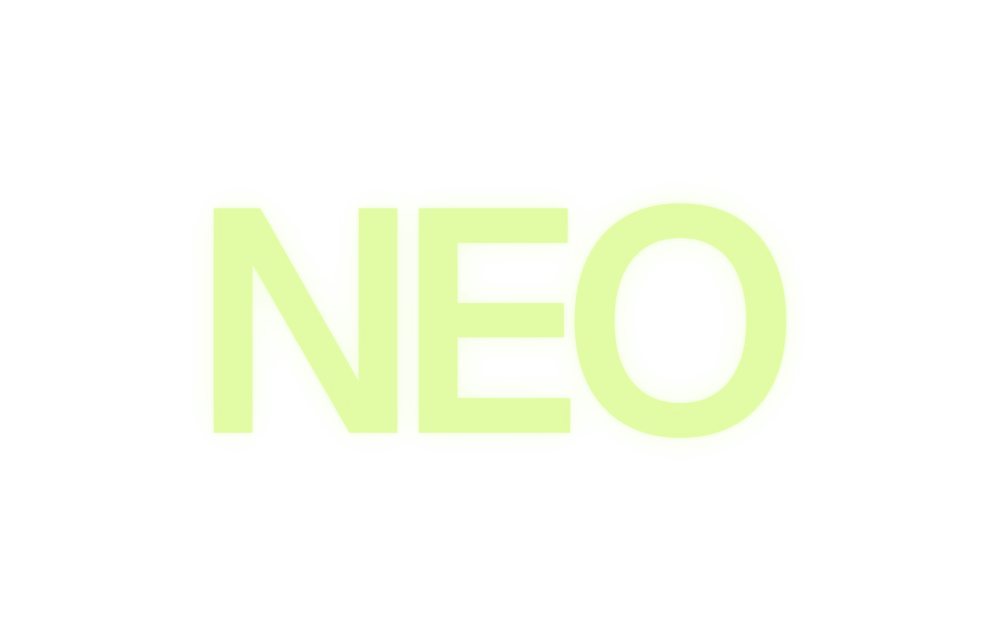
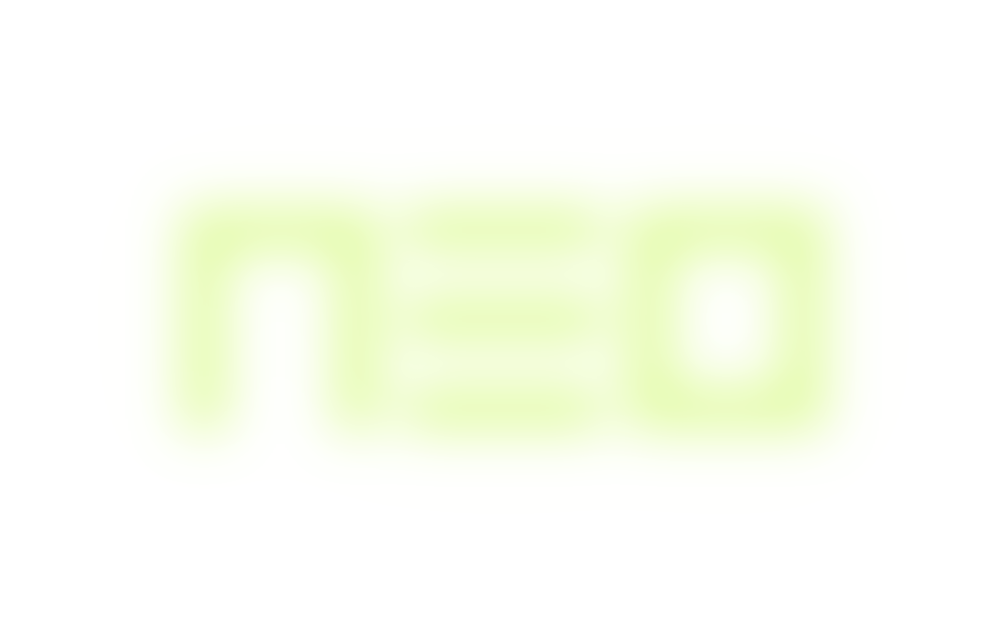
feat(brand): draw the neo sign from the master

Changed region(s): [[0.155, 0.2812, 0.868, 0.7188]]

diff --git a/src/styles.css b/src/styles.css
@@ -184,7 +184,7 @@ a {
 
 .scene-loader-track {
   display: grid;
-  grid-template-columns: repeat(4, 1fr);
+  grid-template-columns: repeat(3, 1fr);
   gap: 0.16rem;
   width: 100%;
 }
@@ -611,7 +611,7 @@ a {
   grid-template-columns: 1fr;
   align-items: center;
   gap: 0.45rem;
-  width: min(26rem, 52vw);
+  width: clamp(11rem, calc(50vw - 9.75rem), 26rem);
   padding: 0;
   color: color-mix(in oklch, var(--bone) 46%, transparent);
   background: transparent;
@@ -954,9 +954,9 @@ a {
 .stage-stack .neo-accent {
   position: relative;
   display: inline-block;
-  width: 1.872em;
+  width: 2.069em;
   height: 0.84em;
-  flex: 0 0 1.872em;
+  flex: 0 0 2.069em;
   align-self: baseline;
   margin-left: 0;
   color: var(--signal);
